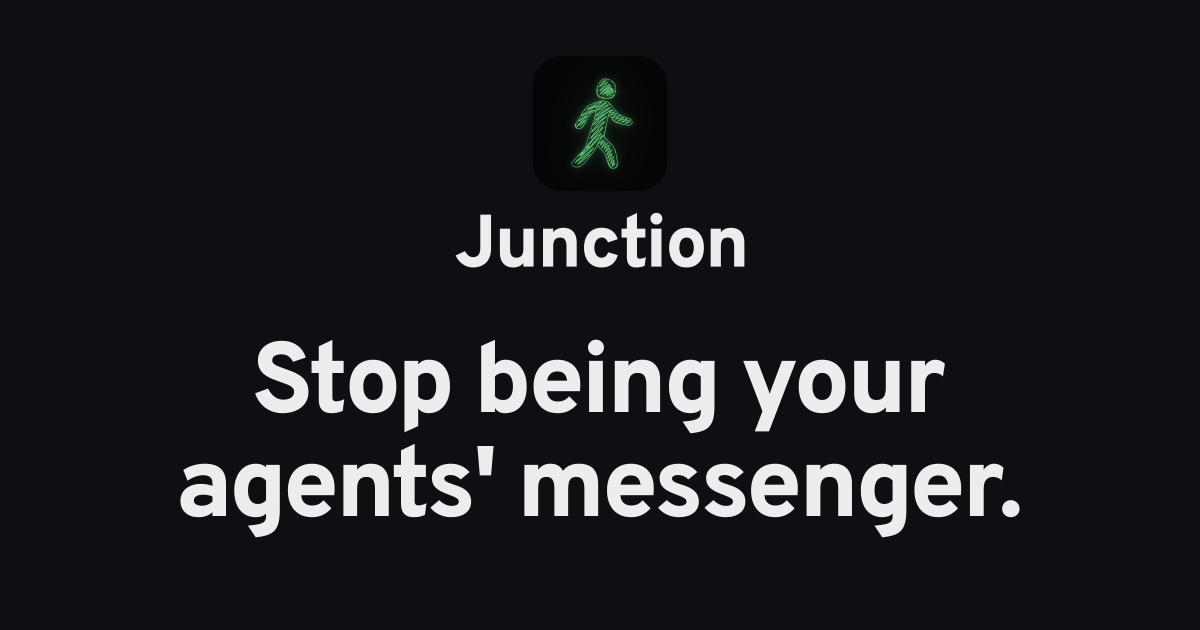
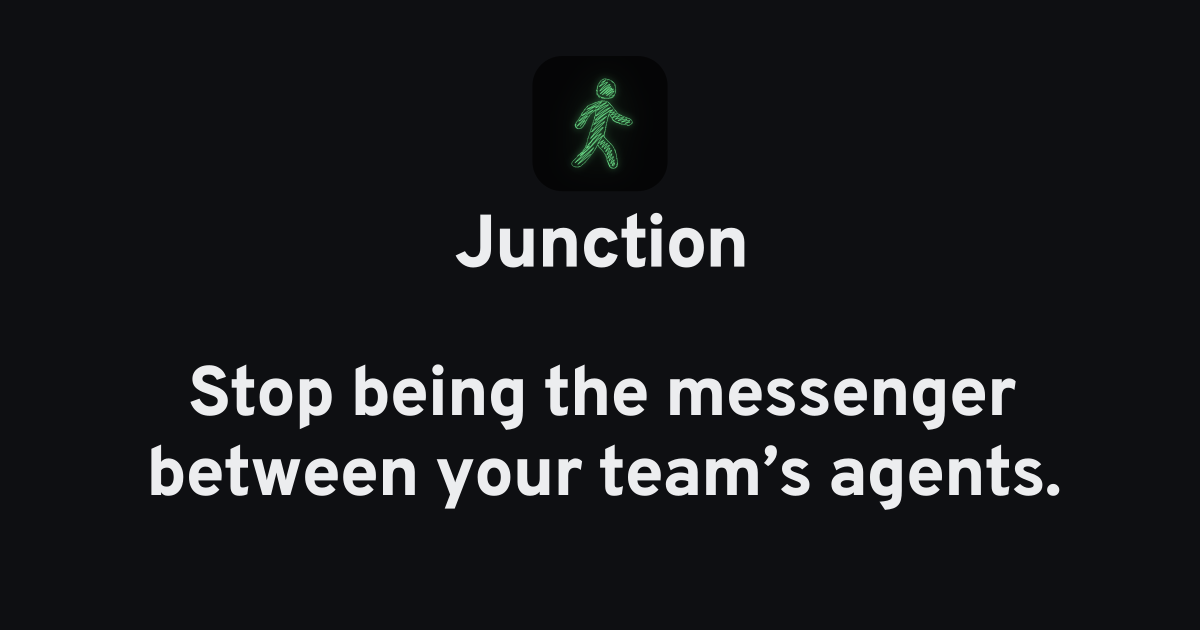
fix(landing): joined walker joints, team headline, no hover pause
- Arms and legs pivot on the outline where each limb leaves the body, so the
  shoulder and hip lines stay joined; near limbs blend over a small wedge.
- Legs no longer slide sideways mid-stride; gentler near arm and leg swing.
- Hero headline reads as several people's agents; social card regenerated.
- Hero no longer pauses on hover (it froze while scrolling over it).

Changed region(s): [[0.1233, 0.5429, 0.8942, 0.8444]]

diff --git a/apps/landing/app/walker.tsx b/apps/landing/app/walker.tsx
@@ -1,23 +1,55 @@
 // The logo figure walking. Every stroke is the original drawing: six clipped copies of figure.png,
 // rotated at the joints like a paper cut-out puppet. Masks hide the far limbs where the torso and near limbs cover them.
-// Fixed wk- IDs: one instance per page.
+// Each limb pivots on the outline itself, at the point where its edge leaves the body, so that line stays joined.
+// The near arm and leg are cut along a ray from the pivot into the armpit/crotch and blend over a wedge past it:
+// the limb fades in over FADE degrees with the torso underneath, then the torso fades out over OVER more.
+// At rest the overlapping copies are the same pixels, so the logo pose is exact. Fixed wk- IDs: one instance per page.
 const SRC = '/brand/figure.png';
-const TORSO = 'M150 145 L200 142 L225 160 L232 180 L218 208 L206 262 L196 312 L191 320 L160 368 L150 368 L128 362 L110 356 L100 350 L103 330 L124 300 L136 242 L148 190 L146 160 Z';
-const LEG_L = 'M112 350 L160 352 L148 380 L84 462 L48 478 L30 468 L46 442 L102 374 Z';
-const ARM_L = 'M146 186 L124 210 L106 232 L92 256 L84 278 L52 278 L46 264 L82 222 L88 186 L100 172 L124 158 L138 177 Z';
+const TORSO = 'M150 145 L200 142 L221 160 L226 180 L214 208 L204 262 L196 312 L188 322 L157 368 L150 368 L128 362 L110 356 L100 350 L103 330 L124 300 L136 242 L148 190 L146 160 Z';
+const LEG_L = 'M108 347 L157 368 L148 380 L84 462 L48 478 L30 468 L46 442 L102 374 Z';
+const ARM_L = 'M146 186 L124 210 L106 232 L92 256 L84 278 L52 278 L46 264 L82 222 L88 186 L100 172 L101 166 L147 183 Z';
+
+// Pivot p on the outline, cut ray from p toward q (the armpit or crotch), wedge radius r. Matches the CSS transform-origins.
+const joint = (p: [number, number], q: [number, number], r: number) => ({ p, a0: Math.atan2(q[1] - p[1], q[0] - p[0]), r });
+const SH = joint([101, 165], [148, 182], 52);
+const HIP = joint([103, 345], [157, 368], 62);
+const FADE = 15;
+const OVER = 10;
+// The wedge from a to b degrees past the cut ray, toward the limb.
+const wedge = ({ p, a0, r }: ReturnType<typeof joint>, a: number, b: number) =>
+  [a, (a + b) / 2, b].reduce((s, d) => `${s} ${(p[0] + r * Math.cos(a0 + (d * Math.PI) / 180)).toFixed(1)},${(p[1] + r * Math.sin(a0 + (d * Math.PI) / 180)).toFixed(1)}`, `${p}`);
+// Stepped fades (SVG has no conic gradient): n wedges between a and b, black at opacity op(k).
+const steps = (j: ReturnType<typeof joint>, a: number, b: number, n: number, op: (k: number) => number) =>
+  Array.from({ length: n }, (_, k) => <polygon key={k} points={wedge(j, a + ((b - a) * k) / n, a + ((b - a) * (k + 1)) / n)} fillOpacity={op(k)} />);
+const limbIn = (j: ReturnType<typeof joint>) => steps(j, 0, FADE, 5, (k) => 1 - (k + 0.5) / 5);
+const torsoOut = (j: ReturnType<typeof joint>) => steps(j, FADE, FADE + OVER, 4, (k) => (k + 0.5) / 4);
+// Hides the torso behind a swung limb, except over the limb's own blend wedge.
+const behindLimb = (j: ReturnType<typeof joint>, silhouette: string) => (
+  <>
+    <path d={silhouette} />
+    <polygon points={wedge(j, -5, FADE + OVER)} fill="#fff" />
+  </>
+);
+
 const CLIPS = {
-  head: '135,8 270,8 270,134 135,134',
-  armL: '20,240 50,196 78,160 112,146 122,150 140,176 140,179 147,182 145,196 122,250 96,294 20,300',
-  armR: '214,170 350,205 350,275 228,270 216,214',
-  torso: '152,128 238,128 243,176 220,204 208,322 194,321 162,370 150,371 128,365 109,359 96,353 100,330 112,292 129,238 145,196 147,182 139,179 139,176 121,150',
-  legL: '108,322 170,330 158,368 92,500 0,500 0,440',
-  legR: '152,358 192,316 280,380 280,500 196,500',
+  head: ['135,8 270,8 270,134 135,134'],
+  armL: ['20,300 20,240 50,170 70,155 101,165 148,182 145,196 122,250 96,294'],
+  armR: ['232,169 240,160 350,205 350,275 228,270 206,262 218,208 232,180'],
+  torso: [
+    '152,128 238,128 240,160 232,169 232,180 218,208 206,262 208,322 188,322 157,368 103,345 80,335 96,320 112,292 129,238 145,196 148,182 101,165 95,163 110,145 130,135',
+    wedge(SH, -2, FADE + OVER),
+    wedge(HIP, -2, FADE + OVER),
+  ],
+  legL: ['103,345 157,368 92,500 0,500 0,440 80,335'],
+  legR: ['157,368 188,322 230,322 280,380 280,500 196,500'],
 };
 type Part = keyof typeof CLIPS;
 
-const Img = ({ part }: { part: Part }) => <image href={SRC} width="360" height="512" clipPath={`url(#wk-c-${part})`} />;
+const Img = ({ part, mask }: { part: Part; mask?: string }) => (
+  <image href={SRC} width="360" height="512" clipPath={`url(#wk-c-${part})`} mask={mask && `url(#wk-m-${mask})`} />
+);
 const Mask = ({ id, children }: { id: string; children: React.ReactNode }) => (
-  <mask id={id} maskUnits="userSpaceOnUse" x="-100" y="-100" width="560" height="712">
+  <mask id={`wk-m-${id}`} maskUnits="userSpaceOnUse" x="-100" y="-100" width="560" height="712">
     <rect x="-100" y="-100" width="560" height="712" fill="#fff" />
     {children}
   </mask>
@@ -29,28 +61,34 @@ export function Walker({ className }: { className?: string }) {
       <defs>
         {(Object.keys(CLIPS) as Part[]).map((p) => (
           <clipPath key={p} id={`wk-c-${p}`}>
-            <polygon points={CLIPS[p]} />
+            {CLIPS[p].map((pts) => <polygon key={pts} points={pts} />)}
           </clipPath>
         ))}
+        {/* Applied inside the rotating groups, so these fades turn with their limb. */}
+        <Mask id="legIn">{limbIn(HIP)}</Mask>
+        <Mask id="armIn">{limbIn(SH)}</Mask>
       </defs>
       <g className="body">
         <defs>
-          <Mask id="wk-m-behind">
+          <Mask id="behind">
             <path d={TORSO} />
           </Mask>
-          <Mask id="wk-m-legR">
+          <Mask id="legR">
             <path d={TORSO} />
             <g className="legL"><path d={LEG_L} /></g>
           </Mask>
-          <Mask id="wk-m-torso">
-            <g className="armL"><path d={ARM_L} /></g>
+          <Mask id="torso">
+            <g className="armL">{behindLimb(SH, ARM_L)}</g>
+            <g className="legL">{behindLimb(HIP, LEG_L)}</g>
+            {torsoOut(SH)}
+            {torsoOut(HIP)}
           </Mask>
         </defs>
         <g mask="url(#wk-m-behind)"><g className="armR"><Img part="armR" /></g></g>
         <g mask="url(#wk-m-legR)"><g className="legR"><Img part="legR" /></g></g>
-        <g mask="url(#wk-m-behind)"><g className="legL"><Img part="legL" /></g></g>
         <g mask="url(#wk-m-torso)"><g className="torso"><Img part="torso" /></g></g>
-        <g className="armL"><Img part="armL" /></g>
+        <g className="legL"><Img part="legL" mask="legIn" /></g>
+        <g className="armL"><Img part="armL" mask="armIn" /></g>
         <g className="head"><Img part="head" /></g>
       </g>
     </svg>

diff --git a/apps/landing/app/globals.css b/apps/landing/app/globals.css
@@ -87,10 +87,10 @@ img, svg { display: block; }
 /* walking figure: clipped copies of figure.png rotated at the joints (walker.tsx). Rest pose = the logo. */
 .walker { display: block; overflow: visible; filter: drop-shadow(0 0 3px rgba(95, 212, 122, 0.85)) drop-shadow(0 0 16px rgba(95, 212, 122, 0.35)); }
 .walker g { transform-box: view-box; }
-.walker .legL { transform-origin: 138px 342px; }
-.walker .legR { transform-origin: 182px 340px; }
-.walker .armL { transform-origin: 140px 176px; }
-.walker .armR { transform-origin: 214px 196px; }
+.walker .legL { transform-origin: 103px 345px; }
+.walker .legR { transform-origin: 188px 322px; }
+.walker .armL { transform-origin: 101px 165px; }
+.walker .armR { transform-origin: 232px 169px; }
 .walker .head { transform-origin: 196px 128px; }
 /* Without motion nothing animates, so the logo pose holds. */
 @media (prefers-reduced-motion: no-preference) {
@@ -101,10 +101,10 @@ img, svg { display: block; }
   .walker .head { animation: wk-head 1.1s ease-in-out infinite; }
   .walker .body { animation: wk-body 1.1s ease-in-out infinite; }
 }
-@keyframes wk-legL { 0%, 100% { transform: none; } 50% { transform: translateX(22px) rotate(-56deg); } }
-@keyframes wk-legR { 0%, 100% { transform: none; } 50% { transform: translateX(-20px) rotate(54deg); } }
-@keyframes wk-armL { 0%, 100% { transform: none; } 50% { transform: rotate(-26deg); } }
-@keyframes wk-armR { 0%, 100% { transform: none; } 50% { transform: rotate(58deg); } }
+@keyframes wk-legL { 0%, 100% { transform: none; } 50% { transform: rotate(-26deg); } }
+@keyframes wk-legR { 0%, 100% { transform: none; } 50% { transform: rotate(38deg); } }
+@keyframes wk-armL { 0%, 100% { transform: none; } 50% { transform: rotate(-14deg); } }
+@keyframes wk-armR { 0%, 100% { transform: none; } 50% { transform: rotate(48deg); } }
 @keyframes wk-body { 0%, 50%, 100% { transform: none; } 25%, 75% { transform: translateY(-7px); } }
 @keyframes wk-head { 0%, 50%, 100% { transform: none; } 25%, 75% { transform: rotate(-3deg); } }
 @media (prefers-color-scheme: light) {
@@ -175,8 +175,6 @@ img, svg { display: block; }
   .station { animation-name: station; }
   .labels li { animation-name: label; animation-timing-function: ease; }
 }
-/* hovering the hero holds the loop (and the walker) */
-.hero:hover .station, .hero:hover .labels li, .hero:hover .walker :is(.legL, .legR, .armL, .armR, .head, .body) { animation-play-state: paused; }
 @media (prefers-reduced-motion: reduce) {
   .station-last { opacity: 1; }
 }

diff --git a/apps/landing/app/page.tsx b/apps/landing/app/page.tsx
@@ -8,8 +8,8 @@ export default function Home() {
   return (
     <main>
       <section className="hero">
-        <h1>Stop being your agents&rsquo; messenger.</h1>
-        <p className="sub">Agents ask each other for work. You approve in one click.</p>
+        <h1>Stop being the messenger between your team&rsquo;s agents.</h1>
+        <p className="sub">Your agent asks a teammate&rsquo;s agent for work. They approve in one click.</p>
         <div className="ctas">
           <a className="btn btn-go" href={LOGIN}>
             <GitHubMark size={20} />
